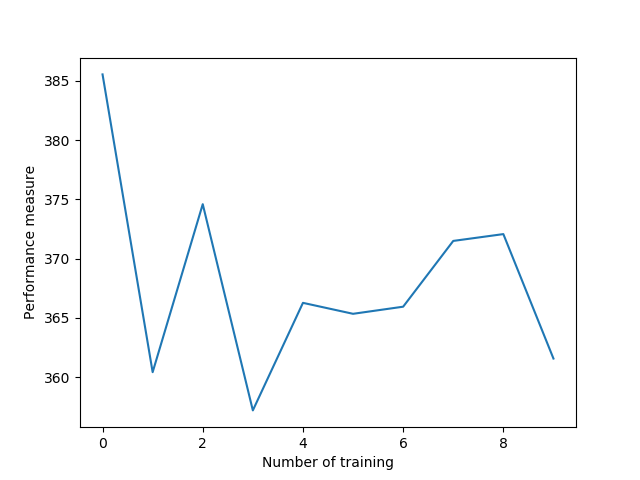
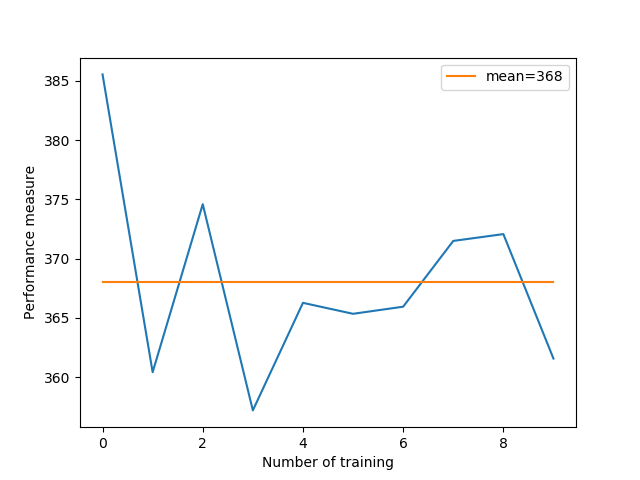
figure

Changed region(s): [[0.1562, 0.5625, 0.8438, 0.5938], [0.6875, 0.125, 0.875, 0.1875]]

diff --git a/Analysis.py b/Analysis.py
@@ -4,7 +4,7 @@ import re
 import numpy as np
 
 
-dirctory = 'qlearning2'
+dirctory = 'sarsa3'
 
 files = os.listdir(dirctory)
 files = [i for i in files if re.match('performance_', i)]
@@ -27,7 +27,13 @@ for item in sorted(files):
 	
 x_axis = [i for i in range(len(y_axis))]
 
+mean = np.mean(y_axis)
+
+mean_line = [mean for _ in range(len(y_axis))]
+
 plt.plot(x_axis, y_axis)
+plt.plot(x_axis, mean_line,label='mean=%d'%mean)
 plt.ylabel('Performance measure')
 plt.xlabel('Number of training')
+plt.legend()
 plt.savefig(dirctory + '/figure')
